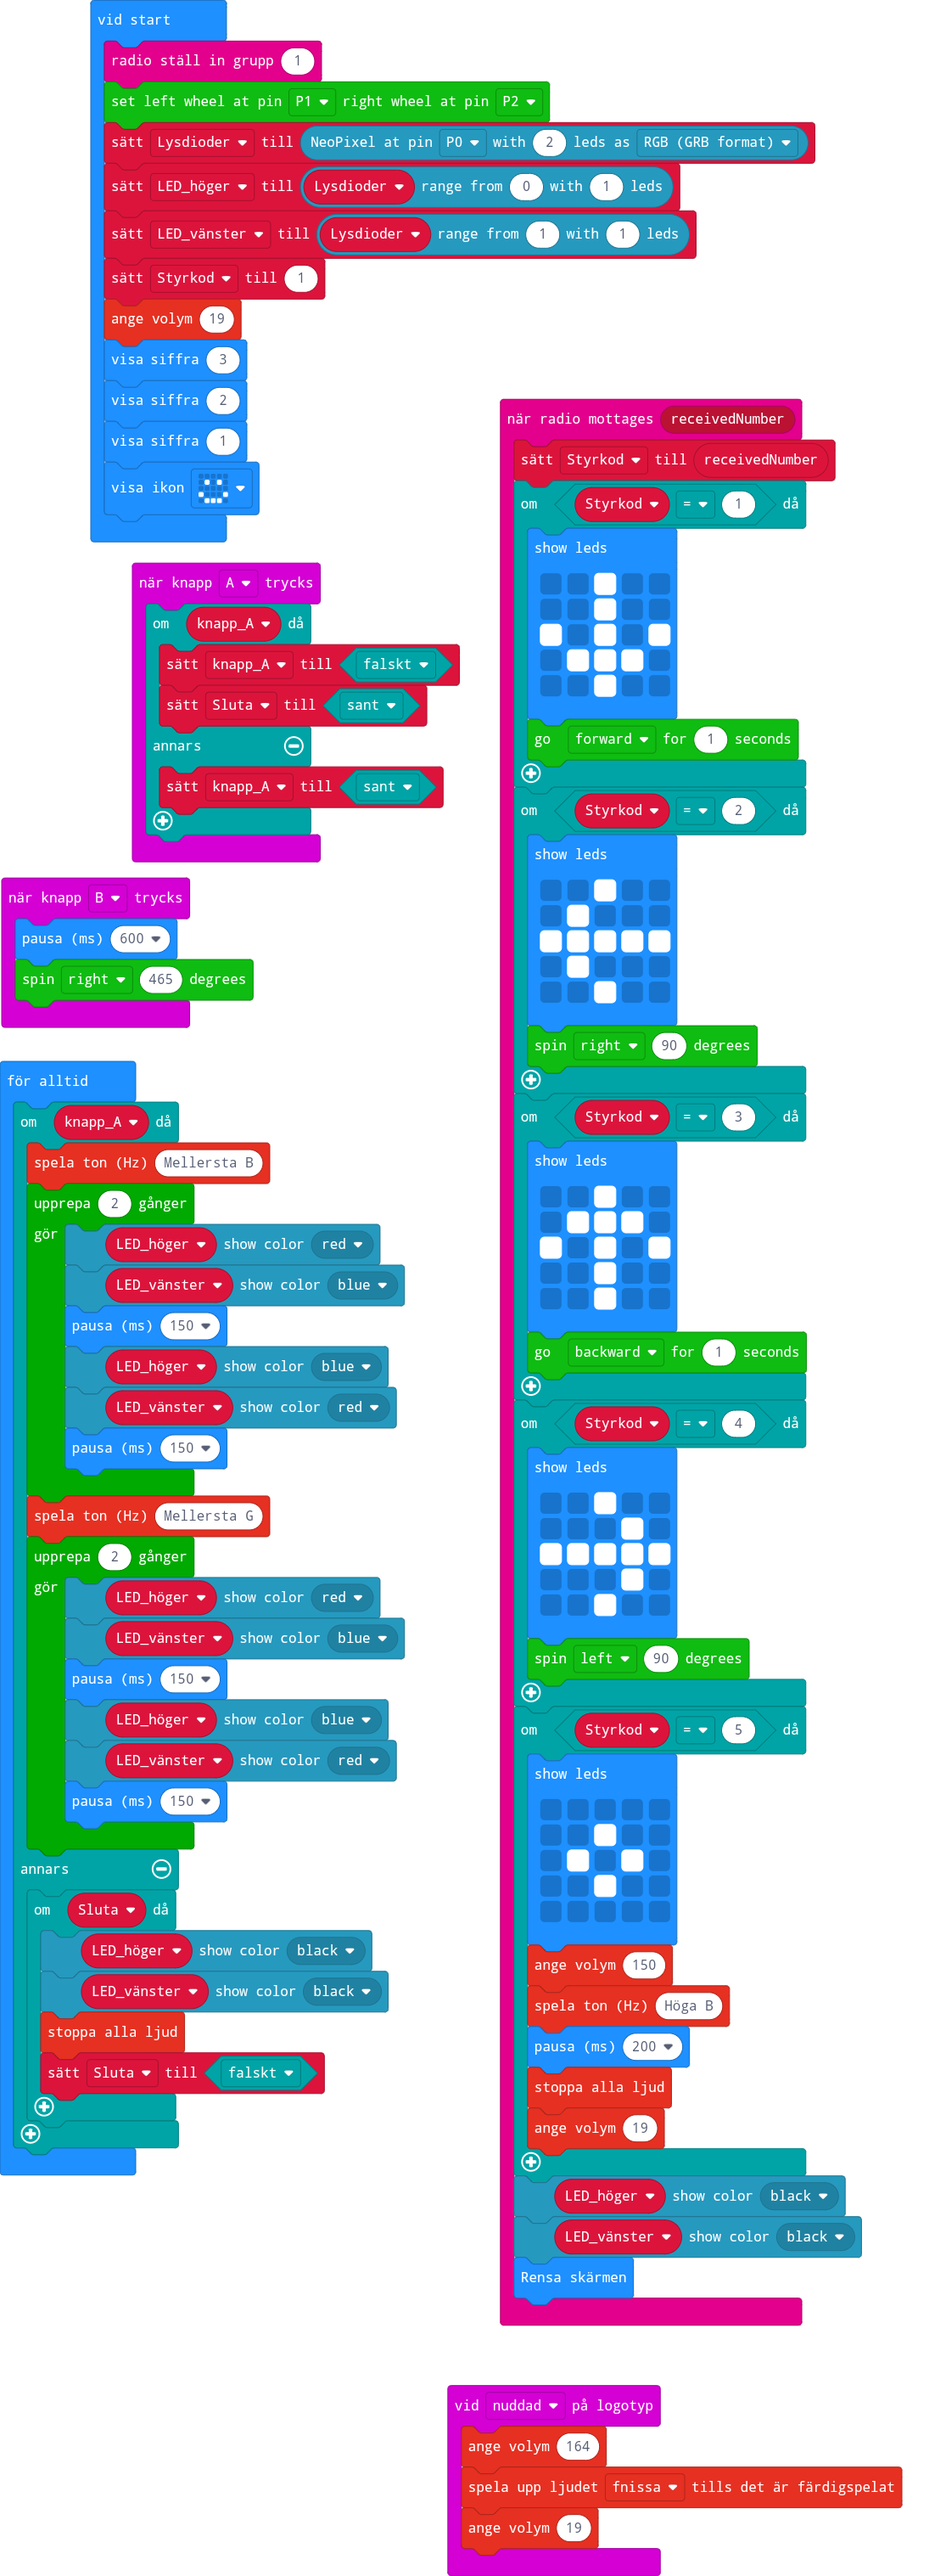
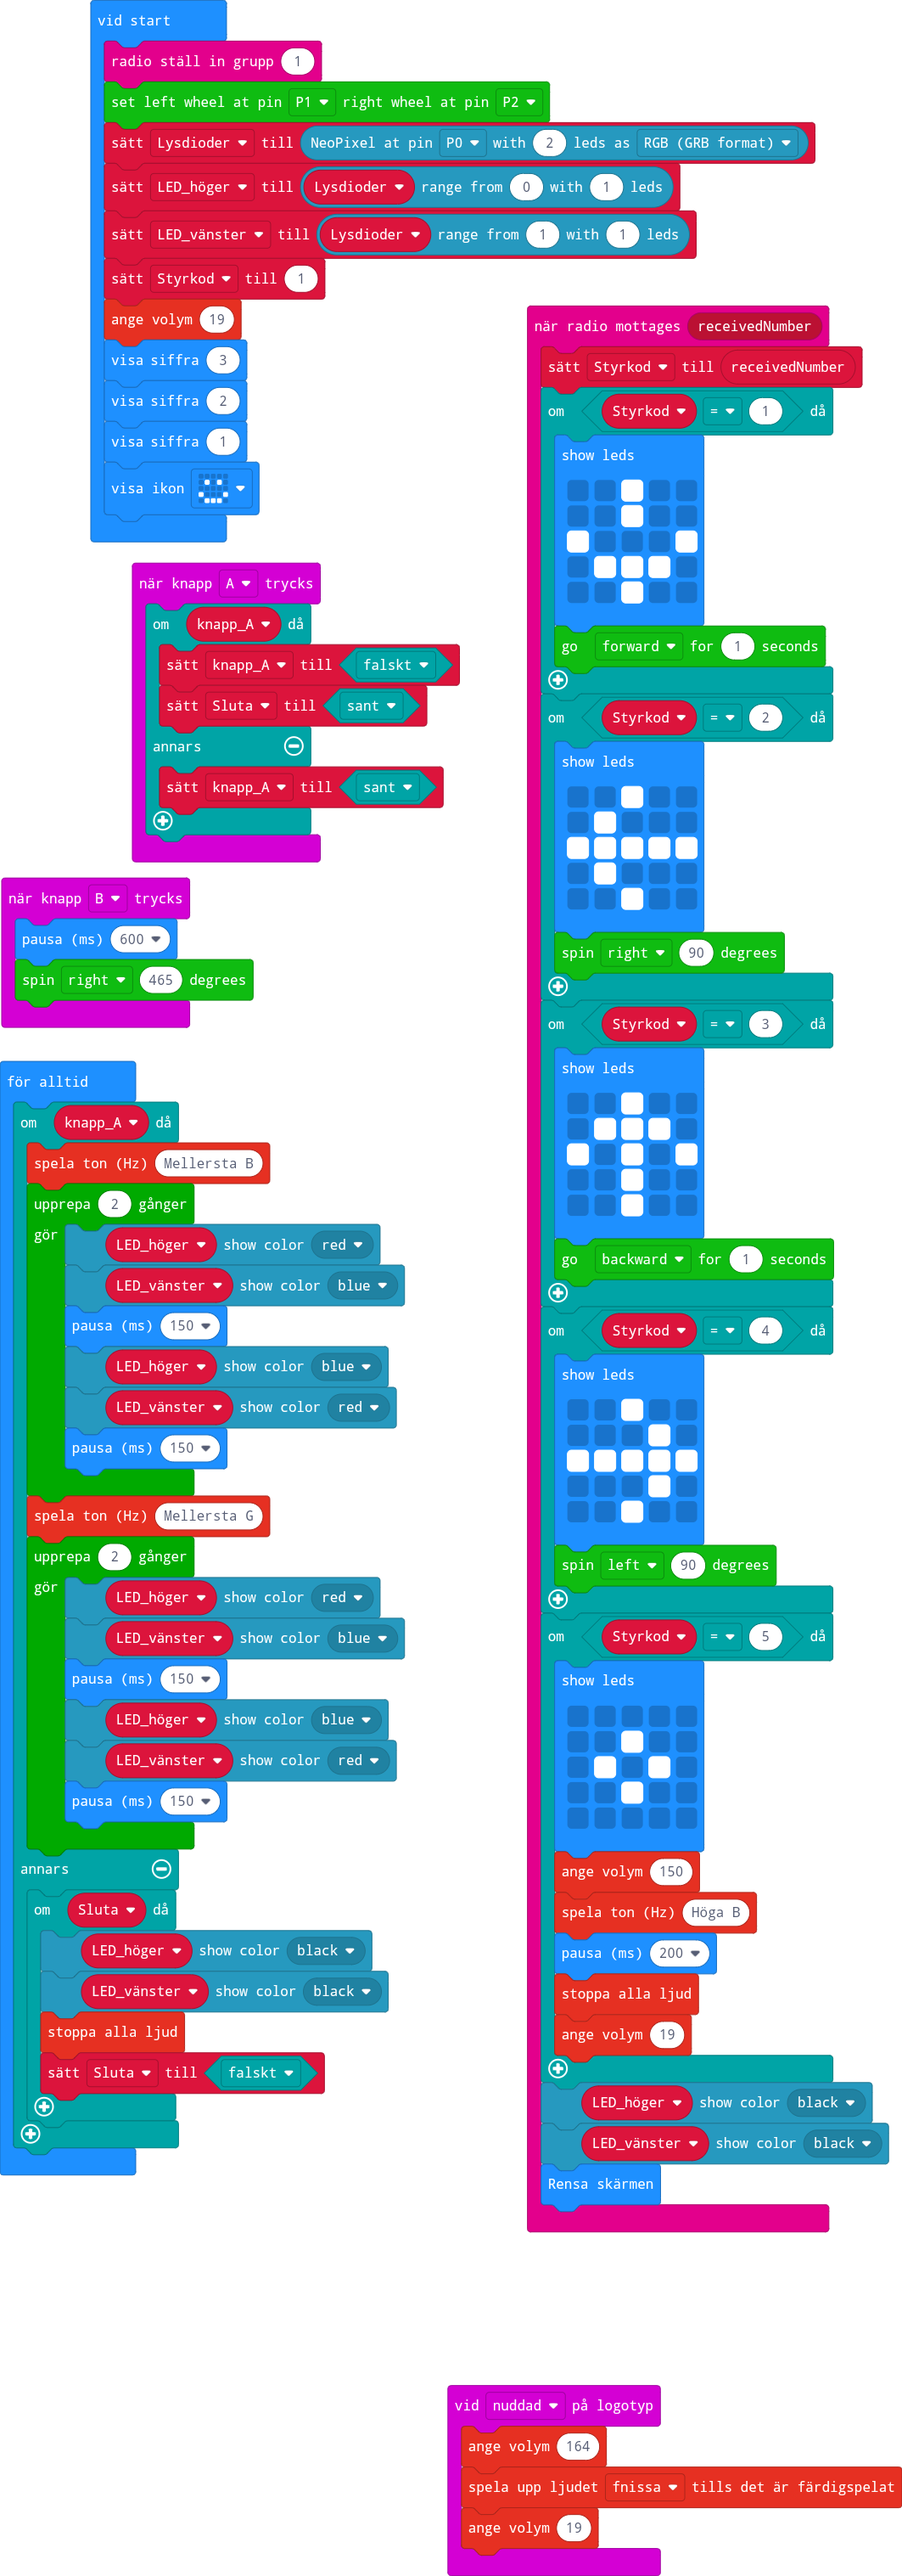
Uppdatera pxt.json, main.blocks, main.ts

diff --git a/main.ts b/main.ts
@@ -9,7 +9,7 @@ radio.onReceivedNumber(function (receivedNumber) {
         basic.showLeds(`
             . . # . .
             . . # . .
-            # . # . #
+            # . . . #
             . # # # .
             . . # . .
             `)
